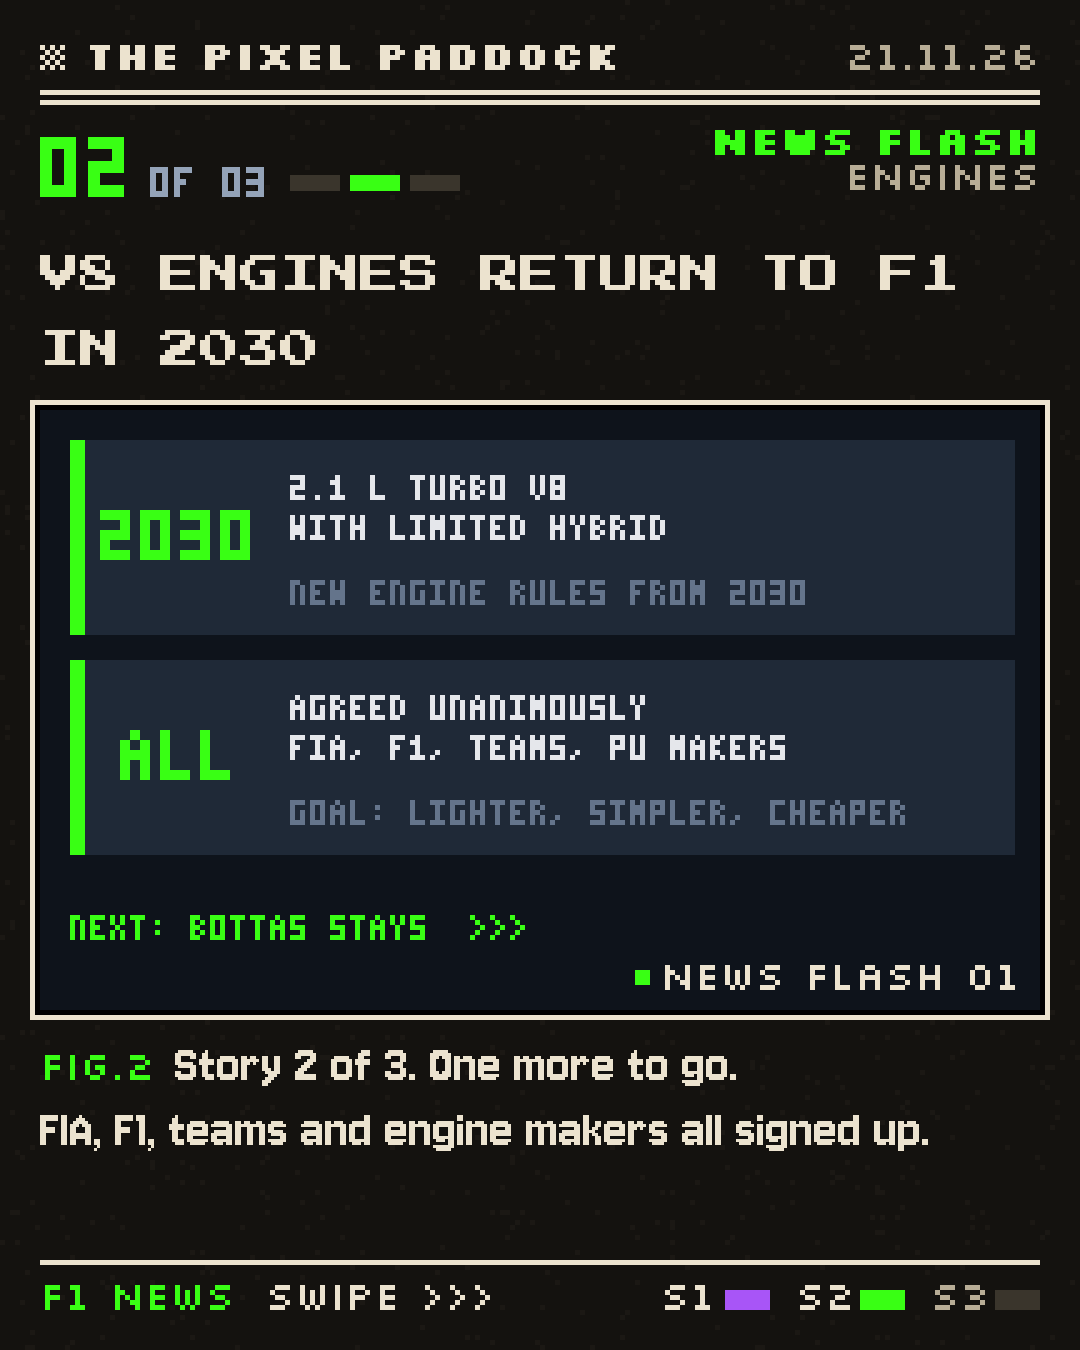
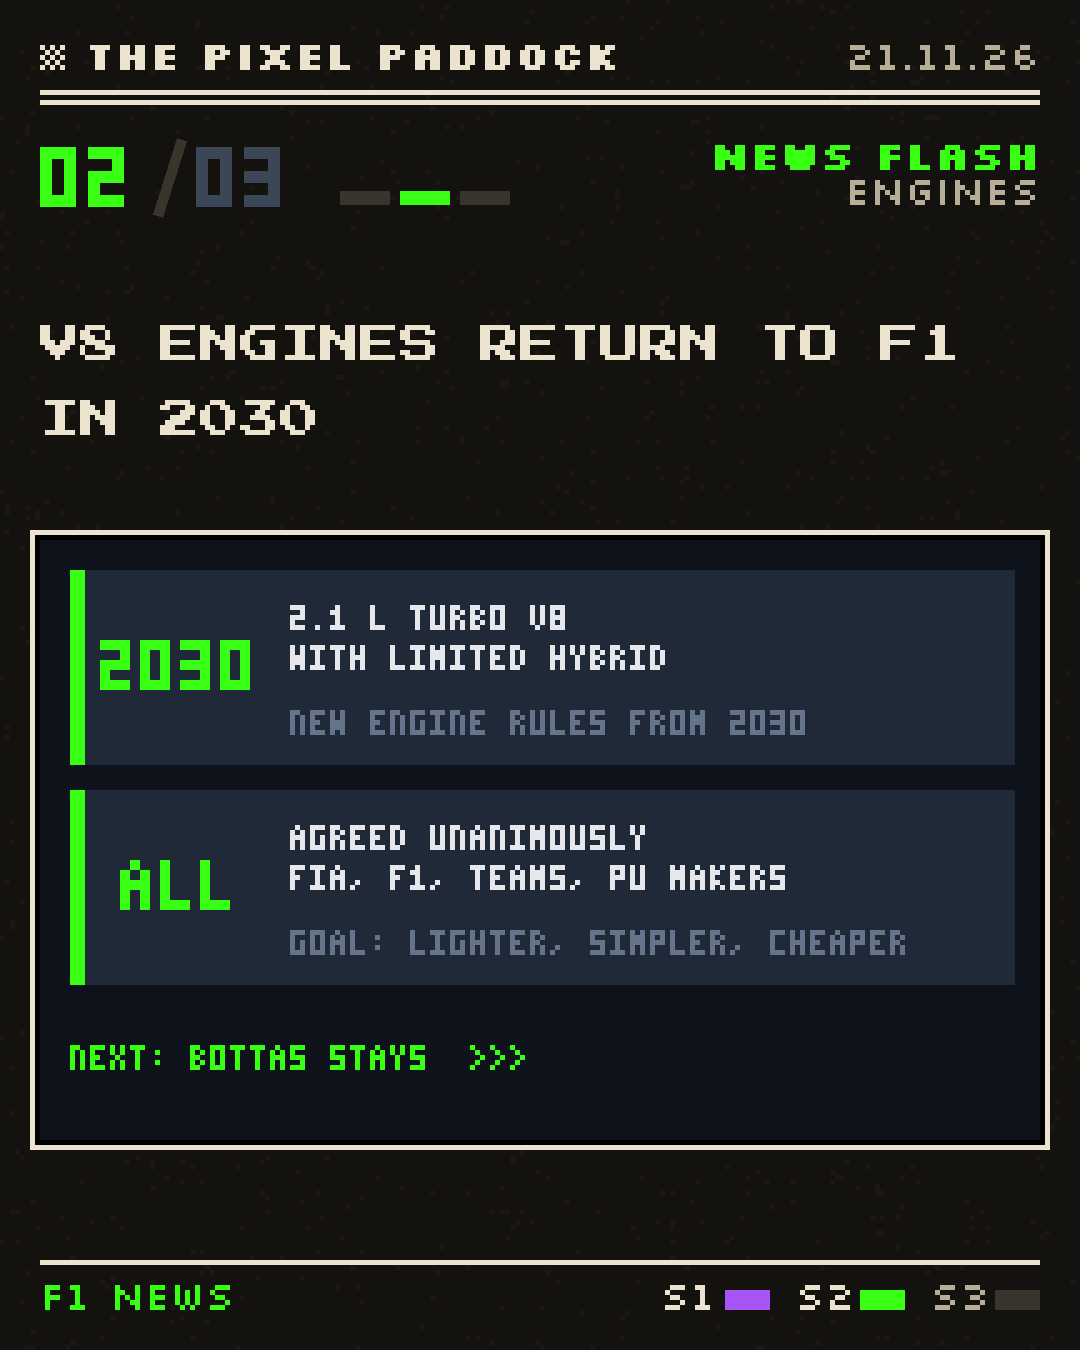
News Flash v4: 01/03 counter, no fig/HUD, single swipe cue
Claude-Session: https://claude.ai/code/session_01XcMK5Sp6yyyARadsj7RYTL

diff --git a/posts/2026-11-21_news-flash/script.py b/posts/2026-11-21_news-flash/script.py
@@ -2,7 +2,7 @@ import os, sys
 sys.path.insert(0, os.path.dirname(os.path.abspath(__file__))); sys.path.insert(0, os.path.join(os.path.dirname(os.path.abspath(__file__)), ".."))
 from PIL import Image, ImageDraw
 exec(open(os.path.join(os.path.dirname(os.path.abspath(__file__)),"post_fri.py")).read().split("def slide(")[0].replace('"out_fri"','"out_flash"').replace('DATE = "07.11.26"','DATE = "21.11.26"').replace('HUD = "23.70S 46.70W"','HUD = "NEWS FLASH 01"'))
-from pp import text, tlen
+from pp import text, tlen, framed
 # NEWS FLASH No. 1, v3 (Marius 21.11.): big "01 OF 03" counter at the very top of the page, then ONE headline,
 # details as cards (v1 style) in story colour, one story per slide, "next" teaser to drive the swipe.
 # Sources (2 each, year 2026 checked):
@@ -29,14 +29,14 @@ def paste_px(im, x, y, s, col, k):
     b = px(s, col, k); m = Image.eval(b.convert("L"), lambda v: 255 if v > 30 else 0); im.paste(b, (x, y), m)
 
 def counter(im, d, i, st, first):
-    y = 125
-    paste_px(im, 40, y, f"0{i+1}", st["col"], 12)                     # 01
-    paste_px(im, 150, y+36, "OF 03", hx("#94a3b8"), 6)                 # OF 03
-    for j in range(3):                                                 # progress
-        R(d, 290+j*60, y+50, 340+j*60, y+66, st["col"] if j == i else C["rule"])
-    lab = "NEWS FLASH"; text(im, W-40-tlen("labelb", lab), y+30, lab, "labelb", C["red"])
-    sub = "3 STORIES, SWIPE >>>" if first else st["tag"]
-    text(im, W-40-tlen("label", sub), y+66, sub, "label", C["ink"] if first else C["mute"])
+    y = 135
+    paste_px(im, 40, y, f"0{i+1}", st["col"], 12)                       # 01 in story colour
+    d.line([(158, y+80), (182, y+4)], fill=C["rule"], width=10)         # slash
+    paste_px(im, 196, y, "03", hx("#3b4656"), 12)                       # 03 big, subdued
+    for j in range(3):                                                  # colour-coded progress
+        R(d, 340+j*60, y+56, 390+j*60, y+70, st["col"] if j == i else C["rule"])
+    lab = "NEWS FLASH"; text(im, W-40-tlen("labelb", lab), y+36, lab, "labelb", C["red"])
+    text(im, W-40-tlen("label", st["tag"]), y+70, st["tag"], "label", C["mute"])
 
 def card(d, im, y, c, stat, h1, h2, ctx):
     r(d, 6, y, 194, y+38, BOXC); r(d, 6, y, 8, y+38, c)
@@ -54,13 +54,11 @@ def scene_for(order, i):
         return im
     return s
 
-def slide(k, head, order, figt, bod, foot, name):
+def slide(k, head, order, foot, name):
     im, d = page(k, 3, DATE)
     counter(im, d, k-1, STORIES[order[k-1]], k == 1)
-    y = headline(im, head, top=260)
-    y = cover_image(im, d, scene_for(order, k-1)(), y + 40, HUD)
-    fig(im, y + 60, figt, k)
-    body(im, y + 95, bod)
+    y = headline(im, head, top=330)
+    framed(im, scene_for(order, k-1)(), 40, y + 100)
     footer(im, d, k, foot); im.save(f"{OUT}/{name}.png")
 
 HEAD = {"v8": "V8 ENGINES RETURN TO F1 IN 2030", "pia": "PIASTRI GETS A 10-PLACE GRID DROP", "bot": "BOTTAS STAYS, NO 2027 SEAT FOR HERTA"}
@@ -71,7 +69,7 @@ FIG = ["Story 1 of 3. Swipe for the next one.", "Story 2 of 3. One more to go.",
 V = {"1": (["v8", "pia", "bot"], HEAD), "2": (["pia", "v8", "bot"], HEAD), "3": (["v8", "bot", "pia"], HEAD3)}
 for v, (order, heads) in V.items():
     for i in range(3):
-        slide(i+1, heads[order[i]], order, FIG[i], BOD[order[i]], "SWIPE >>>" if i < 2 else "FOLLOW", f"{v}_{i+1}")
+        slide(i+1, heads[order[i]], order, "", f"{v}_{i+1}")
 names = [f"{v}_{i}" for v in "123" for i in "123"]
 sh = Image.new("RGB", (3*550+10, 3*685+10), (60, 60, 60))
 for k, n in enumerate(names): sh.paste(Image.open(f"{OUT}/{n}.png").resize((540, 675)), (10+(k%3)*550, 10+(k//3)*685))

diff --git a/toolkit/examples/post_newsflash.py b/toolkit/examples/post_newsflash.py
@@ -2,7 +2,7 @@ import os, sys
 sys.path.insert(0, os.path.dirname(os.path.abspath(__file__))); sys.path.insert(0, os.path.join(os.path.dirname(os.path.abspath(__file__)), ".."))
 from PIL import Image, ImageDraw
 exec(open(os.path.join(os.path.dirname(os.path.abspath(__file__)),"post_fri.py")).read().split("def slide(")[0].replace('"out_fri"','"out_flash"').replace('DATE = "07.11.26"','DATE = "21.11.26"').replace('HUD = "23.70S 46.70W"','HUD = "NEWS FLASH 01"'))
-from pp import text, tlen
+from pp import text, tlen, framed
 # NEWS FLASH No. 1, v3 (Marius 21.11.): big "01 OF 03" counter at the very top of the page, then ONE headline,
 # details as cards (v1 style) in story colour, one story per slide, "next" teaser to drive the swipe.
 # Sources (2 each, year 2026 checked):
@@ -29,14 +29,14 @@ def paste_px(im, x, y, s, col, k):
     b = px(s, col, k); m = Image.eval(b.convert("L"), lambda v: 255 if v > 30 else 0); im.paste(b, (x, y), m)
 
 def counter(im, d, i, st, first):
-    y = 125
-    paste_px(im, 40, y, f"0{i+1}", st["col"], 12)                     # 01
-    paste_px(im, 150, y+36, "OF 03", hx("#94a3b8"), 6)                 # OF 03
-    for j in range(3):                                                 # progress
-        R(d, 290+j*60, y+50, 340+j*60, y+66, st["col"] if j == i else C["rule"])
-    lab = "NEWS FLASH"; text(im, W-40-tlen("labelb", lab), y+30, lab, "labelb", C["red"])
-    sub = "3 STORIES, SWIPE >>>" if first else st["tag"]
-    text(im, W-40-tlen("label", sub), y+66, sub, "label", C["ink"] if first else C["mute"])
+    y = 135
+    paste_px(im, 40, y, f"0{i+1}", st["col"], 12)                       # 01 in story colour
+    d.line([(158, y+80), (182, y+4)], fill=C["rule"], width=10)         # slash
+    paste_px(im, 196, y, "03", hx("#3b4656"), 12)                       # 03 big, subdued
+    for j in range(3):                                                  # colour-coded progress
+        R(d, 340+j*60, y+56, 390+j*60, y+70, st["col"] if j == i else C["rule"])
+    lab = "NEWS FLASH"; text(im, W-40-tlen("labelb", lab), y+36, lab, "labelb", C["red"])
+    text(im, W-40-tlen("label", st["tag"]), y+70, st["tag"], "label", C["mute"])
 
 def card(d, im, y, c, stat, h1, h2, ctx):
     r(d, 6, y, 194, y+38, BOXC); r(d, 6, y, 8, y+38, c)
@@ -54,13 +54,11 @@ def scene_for(order, i):
         return im
     return s
 
-def slide(k, head, order, figt, bod, foot, name):
+def slide(k, head, order, foot, name):
     im, d = page(k, 3, DATE)
     counter(im, d, k-1, STORIES[order[k-1]], k == 1)
-    y = headline(im, head, top=260)
-    y = cover_image(im, d, scene_for(order, k-1)(), y + 40, HUD)
-    fig(im, y + 60, figt, k)
-    body(im, y + 95, bod)
+    y = headline(im, head, top=330)
+    framed(im, scene_for(order, k-1)(), 40, y + 100)
     footer(im, d, k, foot); im.save(f"{OUT}/{name}.png")
 
 HEAD = {"v8": "V8 ENGINES RETURN TO F1 IN 2030", "pia": "PIASTRI GETS A 10-PLACE GRID DROP", "bot": "BOTTAS STAYS, NO 2027 SEAT FOR HERTA"}
@@ -71,7 +69,7 @@ FIG = ["Story 1 of 3. Swipe for the next one.", "Story 2 of 3. One more to go.",
 V = {"1": (["v8", "pia", "bot"], HEAD), "2": (["pia", "v8", "bot"], HEAD), "3": (["v8", "bot", "pia"], HEAD3)}
 for v, (order, heads) in V.items():
     for i in range(3):
-        slide(i+1, heads[order[i]], order, FIG[i], BOD[order[i]], "SWIPE >>>" if i < 2 else "FOLLOW", f"{v}_{i+1}")
+        slide(i+1, heads[order[i]], order, "", f"{v}_{i+1}")
 names = [f"{v}_{i}" for v in "123" for i in "123"]
 sh = Image.new("RGB", (3*550+10, 3*685+10), (60, 60, 60))
 for k, n in enumerate(names): sh.paste(Image.open(f"{OUT}/{n}.png").resize((540, 675)), (10+(k%3)*550, 10+(k//3)*685))
